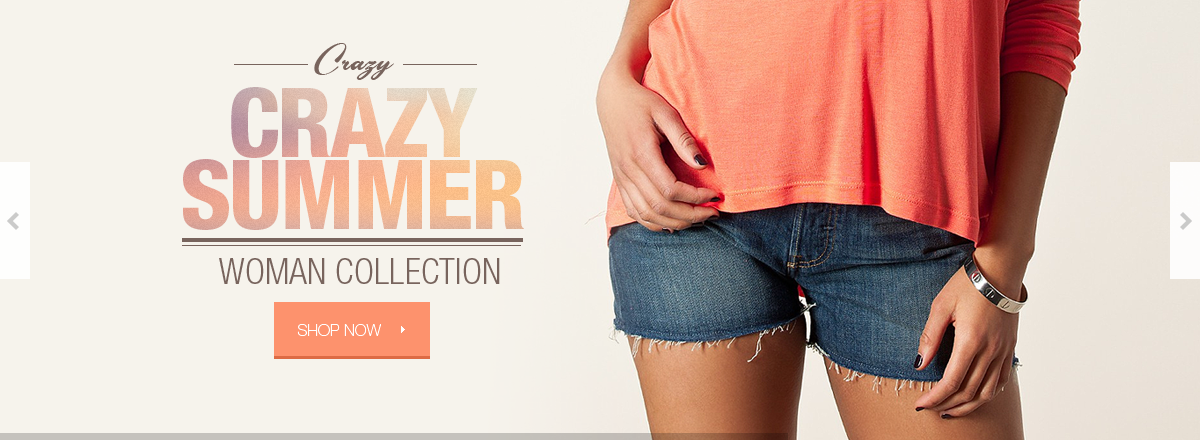
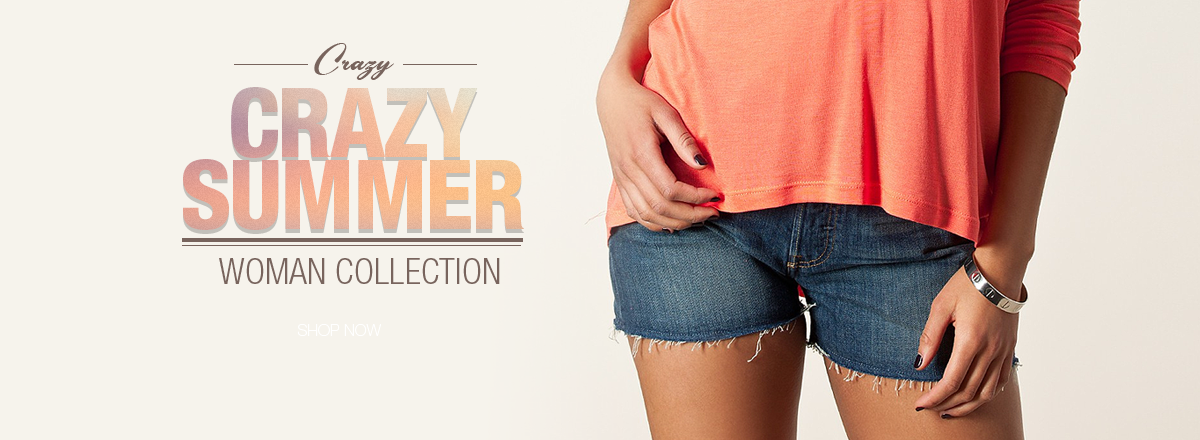
Inserted new slider, added button on slider, added poster

diff --git a/index.html b/index.html
@@ -17,7 +17,19 @@
         body {
             position: relative;
             margin: 0;
-         }
+        }
+        .poster {
+            position: relative;
+            width: 100%;
+            
+        }
+        img[src="poster.png"] {
+            position: absolute;
+            top: 50px;
+            width: 1125px;
+            transform: translate(-50%);
+            left: 50%;
+        }
         /* @media all and (max-width: 768px)
         and (min-width: 640px)
         {
@@ -94,20 +106,31 @@
                 <div class="next"></div>
                 <div class="prev"></div>
                 <img src="slider.png">
+                <div class="button-shop-now">
+                    <input type="button" value="SHOP NOW">
+                </div>
             </div>
         </div>
     </header>
    
     <div class="contact">
-        <p>Stay updated</p>
+        <div class="email-box">
+            <p>Stay updated</p>
             <input type="text" placeholder="Your email address">
             <input type="button" value="+">
-        <p>Find us here</p>
-        <ul class="contact-list">
-            <li><a href="" class="item__contact"><i class="icon-twitter"></i></a></li>
-            <li><a href="" class="item__contact"><i class="icon-facebook"></i></a></li>
-            <li><a href="" class="item__contact"><i class="icon-pinterest-circled"></i></a></li>
-        </ul>
+        </div>
+        <div class="contact-box">
+            <p>Find us here</p>
+            <ul class="contact-list">
+                <li><a href="" class="item__contact"><i class="icon-twitter"></i></a></li>
+                <li><a href="" class="item__contact"><i class="icon-facebook"></i></a></li>
+                <li><a href="" class="item__contact"><i class="icon-pinterest-circled"></i></a></li>
+            </ul>
+        </div>
+        
+    </div>
+    <div class="poster">
+        <img src="poster.png">
     </div>
 </body>
 </html>

diff --git a/css/contact.css b/css/contact.css
@@ -1,7 +1,7 @@
 .contact {
     display: flex;
-    justify-content: space-around;
     font-family: 'Poppins', sans-serif;
+    justify-content: space-around;
     align-items: center;
     position: relative;
     bottom:  -50px;
@@ -9,7 +9,7 @@
     height: 70px;
     background-color: rgb(204, 204, 204);
 }
-input[type="text"] {
+.email-box input[type="text"] {
     height: 35px;
     padding-left: 5px; 
     font-style: italic;
@@ -17,7 +17,7 @@ input[type="text"] {
     border: none;
     outline: none;
   }
-input[type="button"] {
+.email-box input[type="button"] {
     height: 35px;
     width: 35px;
     background: rgb(253, 145, 109);
@@ -31,14 +31,12 @@ input[type="button"] {
 input[type="button"]:hover {
     background-color:  rgba(218, 95, 54, 0.5);
 }
-.contact div {
-    display: flex;
-    margin: 0;
-    padding: 0;
-}
-.contact p {;
+.contact p {
     font-size: 15px; 
     padding-right: 10px;  
+}
+.contact-list {
+    padding: 0;
 }
 .contact-list li {
     display: inline-block;
@@ -50,5 +48,15 @@ input[type="button"]:hover {
 .item__contact i:hover {
     color: rgb(59, 59, 59);
     font-size: 25px;
-
+}
+a {
+    text-decoration: none;
+}
+.email-box {
+    display: flex;
+    align-items: center;
+}
+.contact-box {
+    display: flex;
+    align-items: center;
 }

diff --git a/css/slider.css b/css/slider.css
@@ -2,6 +2,7 @@
     display: flex;
     justify-content: center;
     position: relative;
+    font-family: 'Poppins', sans-serif;
 }
 .slider__indicators {
     position: absolute;
@@ -60,4 +61,33 @@ img[src="slider.png"] {
     border-radius: 10%;
     border:4px solid rgb(253, 145, 109);
     background-color: rgba(253, 145, 109, 0.349);
+}
+.button-shop-now {
+    position: absolute;
+    top: 68%;
+    left: 23%;
+    width: 170px;
+}
+.button-shop-now input[type="button"] {
+    height: 60px;
+    width: 170px;
+    padding-right: 15px;  
+    background: rgb(253, 145, 109);
+    border: none;
+    outline: none;
+    box-shadow: inset 0 -3px 0px rgb(218, 95, 54);
+    color: white;
+    font-size: 20px;
+}
+.button-shop-now:hover {
+    background-color:  rgba(218, 95, 54, 0.5);
+}
+.button-shop-now::after {
+    content: "";
+    border: 4px solid transparent;	
+    border-left: 5px solid white;
+    position: absolute;
+    z-index: 5;
+    right: 10px;
+    top: 40%;
 }
